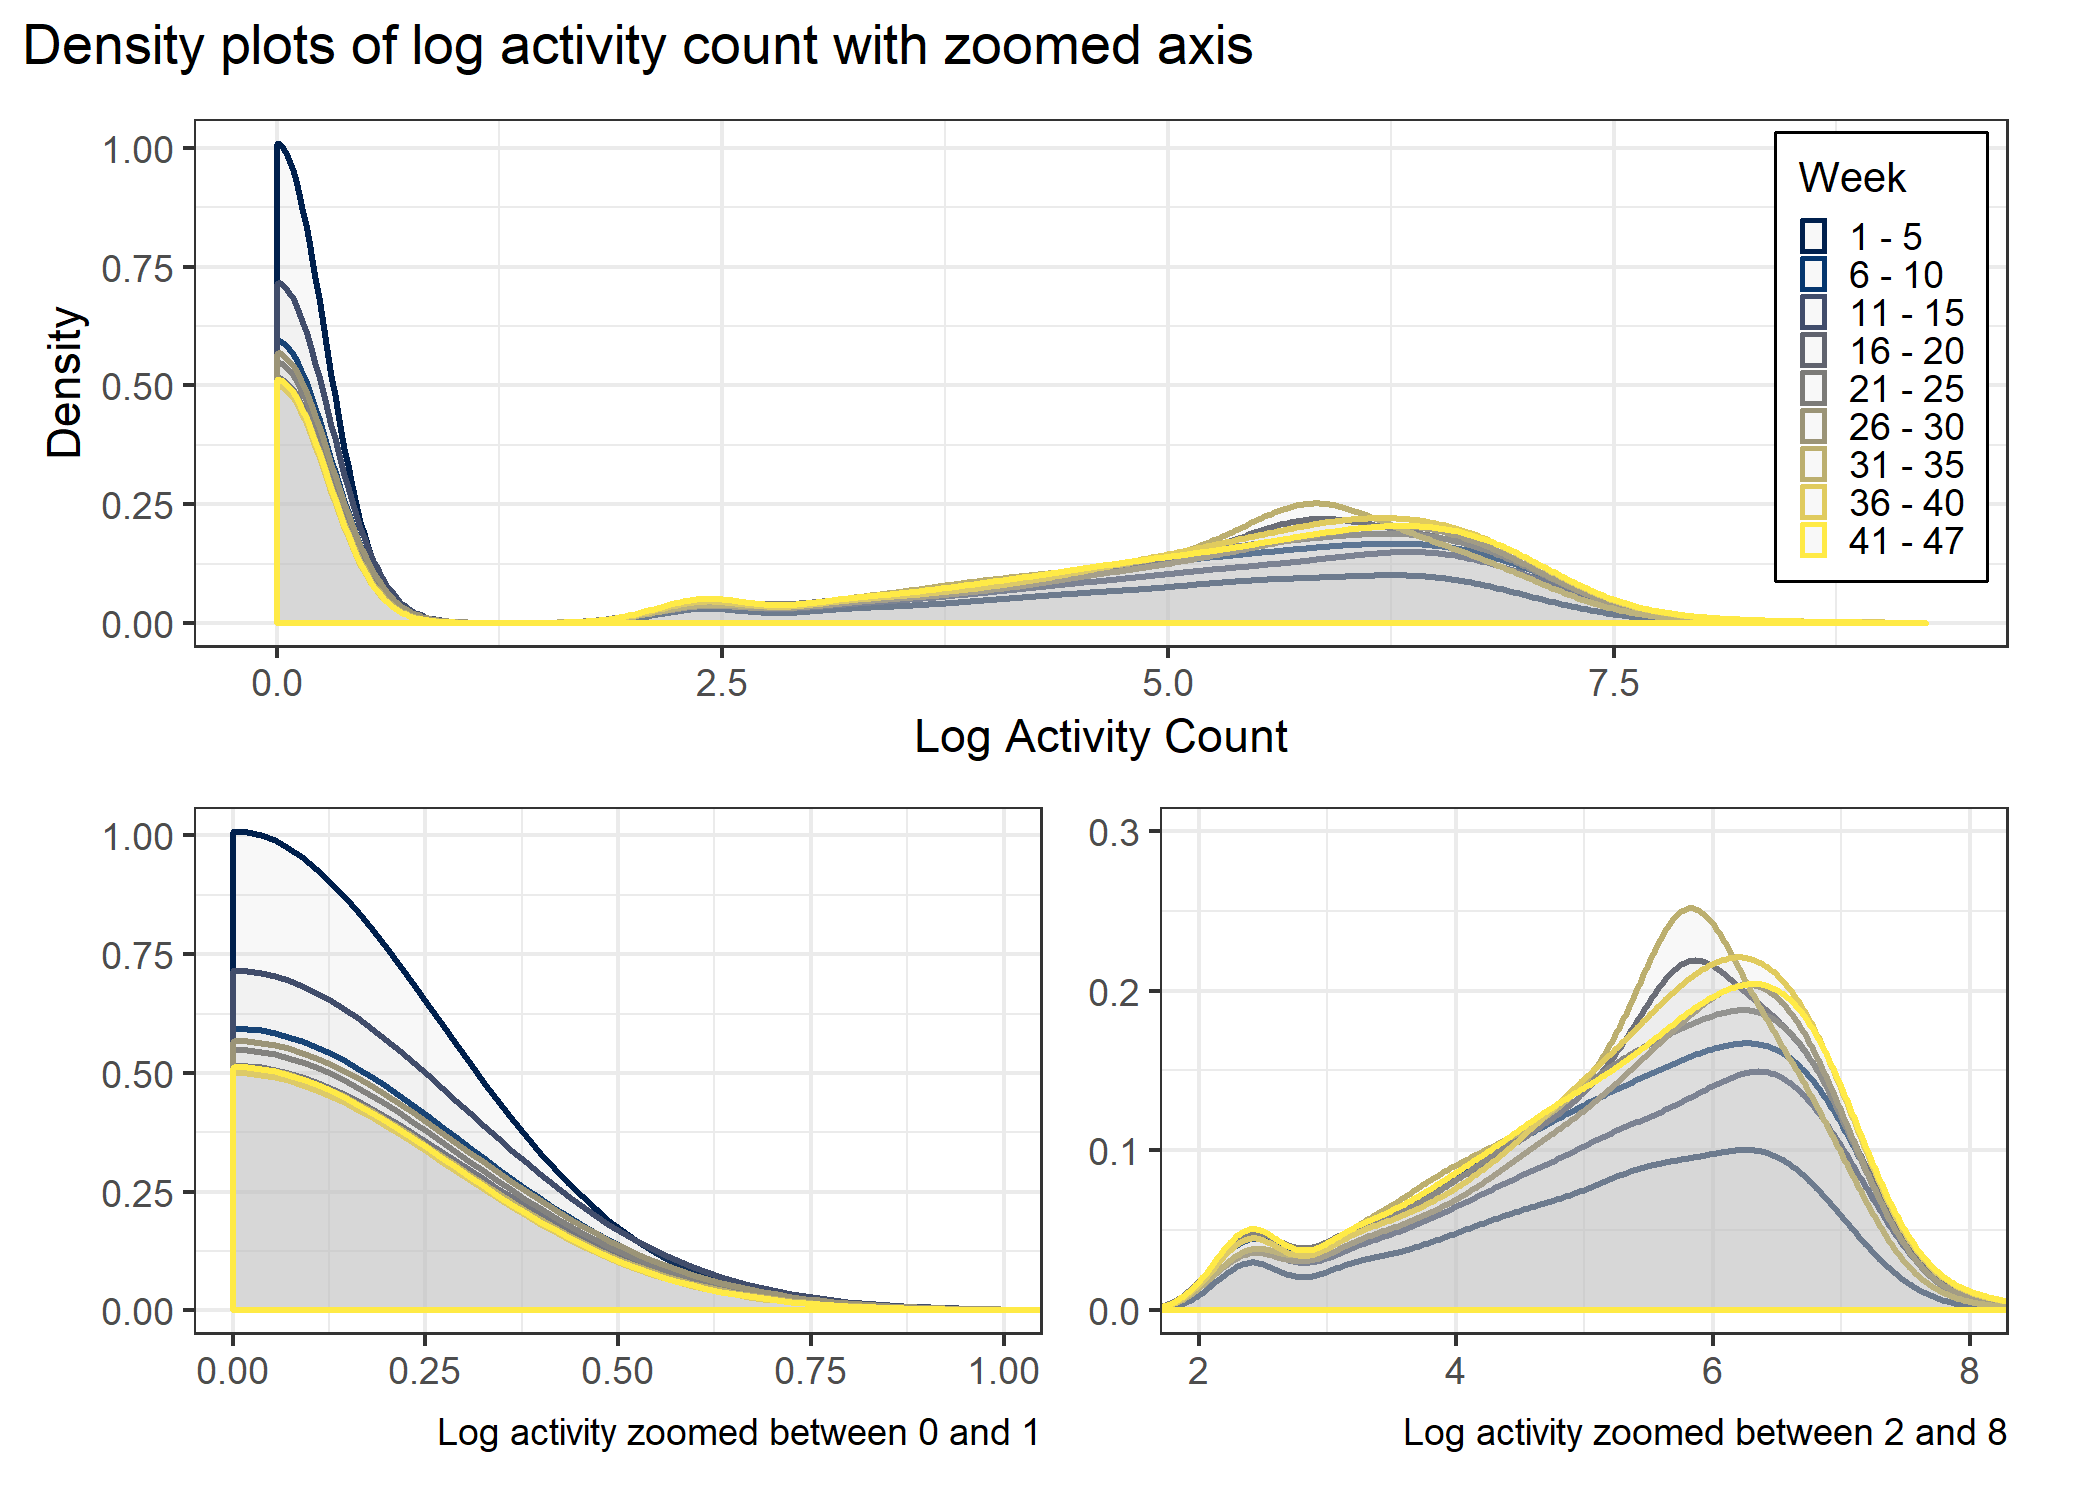
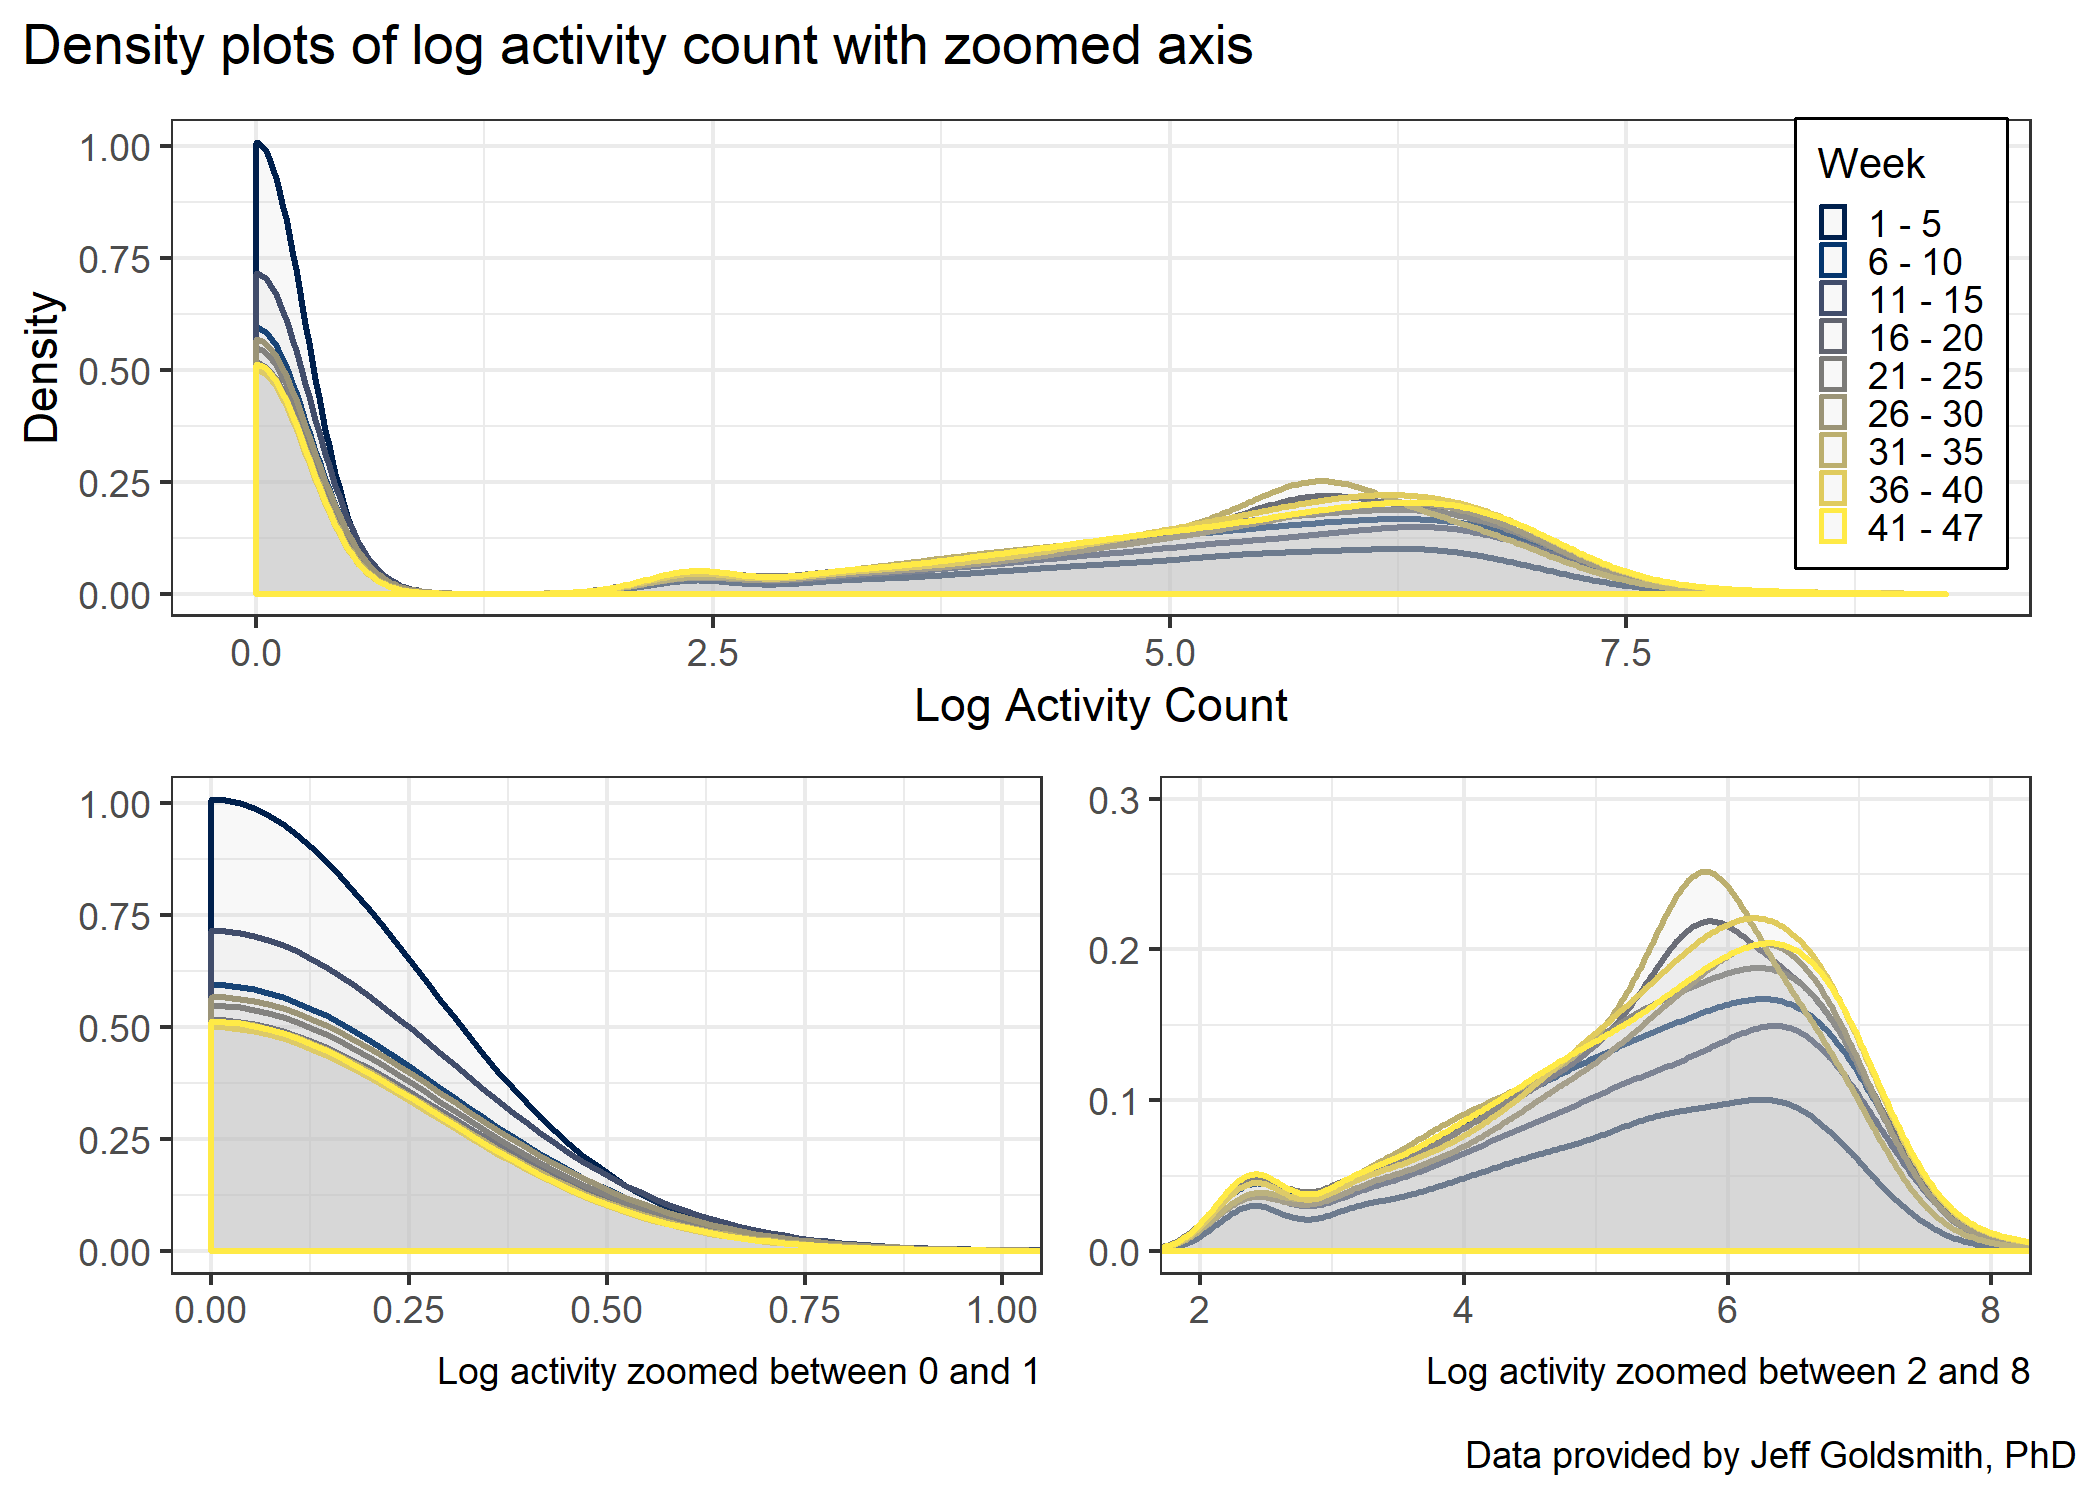
stylistic edits

diff --git a/p8105_mtp_ntw2117.md b/p8105_mtp_ntw2117.md
@@ -45,7 +45,7 @@ The first steps in this analysis required importing and tidying the data. I tran
 
 The cleaned accelerometer dataset contains 473760 observations and 6 variables. Variables include the week, day, hour, and minute. Ultimately, the data represents 329 days or 19740 hours worth of data. The data is highly right skewed due to the presence of outliers; as such, in addition to total activity, the median and/or geometric mean are used throughout this analysis. The median and geometric average activity count throughout the entire observation period were 43 and 21.5 respectively. The modal activity count was 1 with 204507 observed minutes.
 
-### Exploratory analyses
+### Analyses
 
 ``` r
 density_full <- accel_data %>% 
@@ -87,11 +87,12 @@ density_zoom_2 <- accel_data %>%
   theme(axis.title.x = element_blank(), 
         axis.title.y = element_blank())
 
-wrap_elements(density_full / (density_zoom_1 + density_zoom_2)) + 
-  ggtitle("Density plots of log activity count with zoomed axis")
+density_full / (density_zoom_1 + density_zoom_2) + 
+  plot_annotation(title = "Density plots of log activity count with zoomed axis", 
+                  caption = "Data provided by Jeff Goldsmith, PhD")
 ```
 
-<img src="p8105_mtp_ntw2117_files/figure-markdown_github/density plots of activity over the weeks-1.png" width="75%" style="display: block; margin: auto;" />
+<img src="p8105_mtp_ntw2117_files/figure-markdown_github/density plots of activity over the weeks-1.png" width="65%" style="display: block; margin: auto;" />
 
 In the above figure, I plotted the distribution of the log activity counts stratified by weekly intervals. The density plot is characterized by two distinct peaks centered around zero and six. Interestingly, the peak centered around zero (indicating minimal activity) begins to decrease as time moves forward while the peak centered around six begins to increase. This is the first indication that the individuals activity may have increased over time.
 
@@ -117,7 +118,8 @@ total_agg_activity <- accel_data %>%
        x = "Day of the week", 
        y = "Total activity count")
 
-total_agg_activity + geo_agg_activity
+total_agg_activity + geo_agg_activity + 
+  plot_annotation(caption = "Data provided by Jeff Goldsmith, PhD")
 ```
 
 <img src="p8105_mtp_ntw2117_files/figure-markdown_github/activity by day line plot-1.png" width="100%" style="display: block; margin: auto;" />
@@ -185,8 +187,9 @@ total_actvty_week_day <- accel_data %>%
         strip.text = element_text(color = "black")
   )
 
-wrap_elements(total_actvty / total_actvty_week_day) + 
-  ggtitle("Trends in total activity over the observation period")
+total_actvty / total_actvty_week_day  + 
+  plot_annotation(title = "Trends in total activity over the observation period", 
+                  caption = "Data provided by Jeff Goldsmith, PhD")
 ```
 
 <img src="p8105_mtp_ntw2117_files/figure-markdown_github/total activity across weeks-1.png" width="100%" style="display: block; margin: auto;" />
